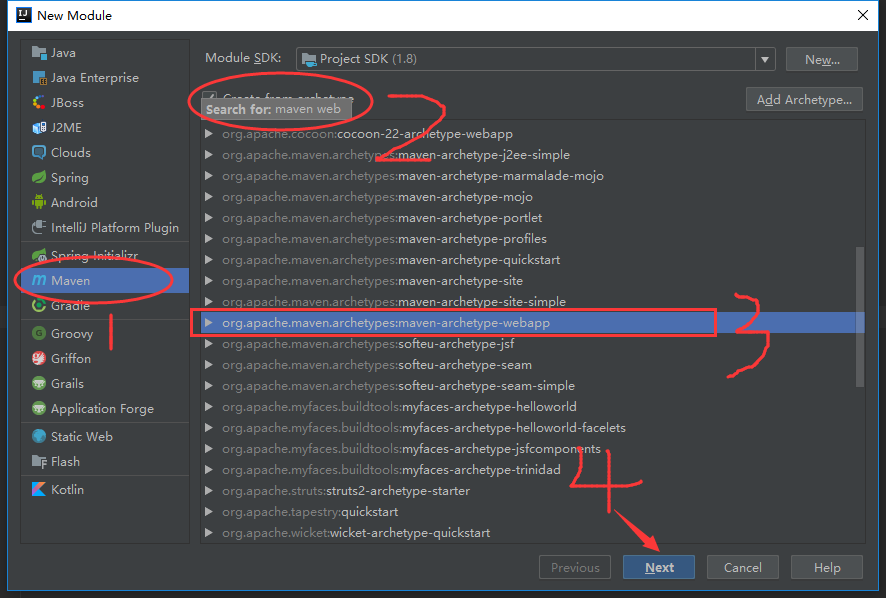
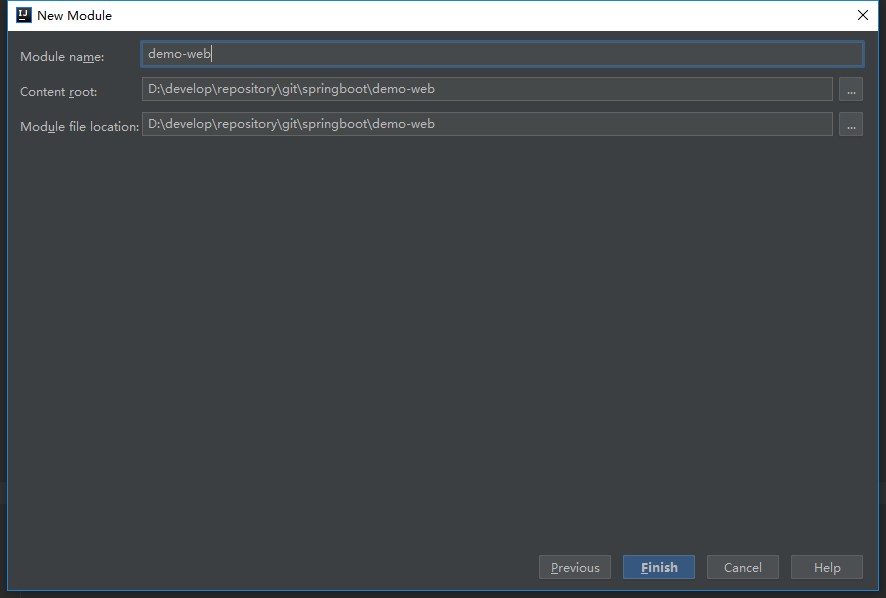
添加springBoot创建maven web 项目操作文档

diff --git a/doc/2.springBoot创建maven_web多模块项目.md b/doc/2.springBoot创建maven_web多模块项目.md
@@ -1,0 +1,159 @@
+## 2 Spring Boot 创建 maven web 多模块项目  
+
+
+
+## 2.1 使用 Spring Initializr创建子项目    
+
+
+
+### 2.1.1 新建 module  
+
+右键项目名称(`Springboot`)  ---  选择新建 `Module`  
+
+<img src="img/spring-boot-demo-2-1.png" />  
+
+
+
+### 2.1.2 选择 `Spring Initializr`    
+
+在左边菜单栏中选择 `Spring Initializr` ，然后直接点击下一步(`Next`)  
+
+<img src="img/spring-boot-demo-2-2.png" />  
+
+### 2.1.3 填写模块信息  
+
+作为项目的**子模块**,其 `Group` 必须要与父模块的保持一致    
+
+项目类型(`Type`) 可以选择 `Maven Project`,也可以选择 `Maven POM` , 两者的区别在于:  
+
+`Maven Project` 创建的是标准的 `Spring Boot` 项目,会自动生成 `SpringBootApplication` 等文件  
+
+`Maven POM` 创建的是一个空文件夹,里边只有一个 `POM` 文件  
+
+<img src="img/spring-boot-demo-2-3.png" />
+
+
+
+### 2.1.4 选择子模块的依赖    
+
+关于依赖的选择,可以在创建的时候进行选择,也可以在后期编写业务代码时根据需要进行添加  
+
+`DevTools` 依赖可以提供热部署、实时编译功能,修改代码之后可以直接运行，不需要重启项目(服务)  
+
+`Web` 依赖会提供 `Spring` 系列的依赖,同时会创建一些符合 `RESTful` 风格的文件目录  
+
+<img src="img/spring-boot-demo-2-4.png" />  
+
+
+
+### 2.1.5 填写子模块的名称等信息    
+
+在 `Module name` 一栏填写子模块的名称,填写之后直接点击完成(`Finish`)  
+
+<img src="img/spring-boot-demo-2-5.png" />  
+
+到这里,通过 `Spring Initializr` 创建子模块的步骤已经完成  
+
+
+
+## 2.2 使用 Maven 创建子模块  
+
+
+
+### 2.2.1 新建Module  
+
+同 2.1.2  右键父项目进行新建即可  
+
+
+
+### 2.2.2 选择 `Maven`  
+
+在进入新建模块的菜单中选择 `Maven`    
+
+选中右侧复选框 `Create from archetype`  
+
+同时按 `Ctrl` + `F` ，输入 `maven web` 选中光标锁定的 `Maven` 项目,点击 `Next` 进入下一步  
+
+`maven-archetype-webapp` 表示创建一个 `Maven` 的 `web`  项目,会包含 `webapp` 目录以及 `web.xml` 文件  
+
+这些文件在 `Spring Boot` 项目中都是不需要的,这些文件在后边的步骤中进行删除  
+
+<img src="img/spring-boot-demo-2-6.png" />    
+
+
+
+### 2.2.3 填写子模块信息  
+
+使用 `Maven` 创建的子模块会直接继承父模块的 `GroupId` ，同时创建之后还会在父模块的 `POM` 文件中添加子模块的依赖,这个不同于使用 `Spring Initializr` 创建的子模块，这一种方式创建的子模块后期调整较少,**推荐使用`Maven` 创建项目子模块**  
+
+子项目在父项目中的依赖:  
+
+```xml
+ <modules>
+        <module>demo-web</module>
+        <module>demo-service</module>
+        <module>demo-dao</module>
+        <module>demo-model</module>
+ </modules>
+```
+
+
+
+`ArtfactId` 信息填写之后直接点击 `Next` 进入下一步即可  
+
+<img src="img/spring-boot-demo-2-7.png" />  
+
+
+
+<img src="img/spring-boot-demo-2-8.png" />  
+
+
+
+<img src="img/spring-boot-demo-2-9.png" />    
+
+点击 `Finish` 之后，通过 `Maven` 创建子项目已经完成      
+
+
+
+## 2.3 调整项目目录  
+
+无论是通过 `Spring Initializr` 还是 `Maven` 的方式创建子项目,都可能会有一些文件目录不符合规范,需要自行创建  
+
+在使用 `intellij idea` 创建文件目录之后,需要将其标记为对应的资源目录(`sources`),这样编辑器才能够识别其中的代码  
+
+<img src="img/spring-boot-demo-2-10.png" />  
+
+
+
+## 2.4 项目效果图  
+
+子项目创建之后，留存的项目结构图应如图所示  
+
+对照效果图,删除多余的文件,创建缺少的文件  
+
+本次提交的版本日志为 :   
+
+```properties
+commit a494288d658812ea073df042fcd61c27160378da (HEAD -> master, origin/master)
+Author: junqiang.lu <flying9001@gmail.com>
+Date:   Thu Sep 13 11:59:51 2018 +0800
+
+    使用springBoot 创建maven web 多模块项目
+```
+
+
+
+版本回退操作命令:  
+
+```shell
+git reset --hard a494288d658812ea073df042fcd61c27160378da
+```
+
+
+
+<img src="img/spring-boot-demo-2-11.gif" />  
+
+
+
+
+

diff --git a/README.md b/README.md
@@ -8,7 +8,7 @@ Project note documentation in the `doc` directory.
 
 Quick start :  
 
-[quick start with intellij idea ](doc/1.quick_start_with_intellij_idea.md )  
+[1.quick start with intellij idea ](doc/1.quick_start_with_intellij_idea.md )  
 
 
 
@@ -18,7 +18,9 @@ Quick start :
 
 快速搭建:  
 
-[quick start with intellij idea ](doc/1.quick_start_with_intellij_idea.md )  
+[1.quick start with intellij idea ](doc/1.quick_start_with_intellij_idea.md )   
+
+[2.springBoot创建maven_web多模块项目](doc/2.springBoot创建maven_web多模块项目.md)  
 
 
 
